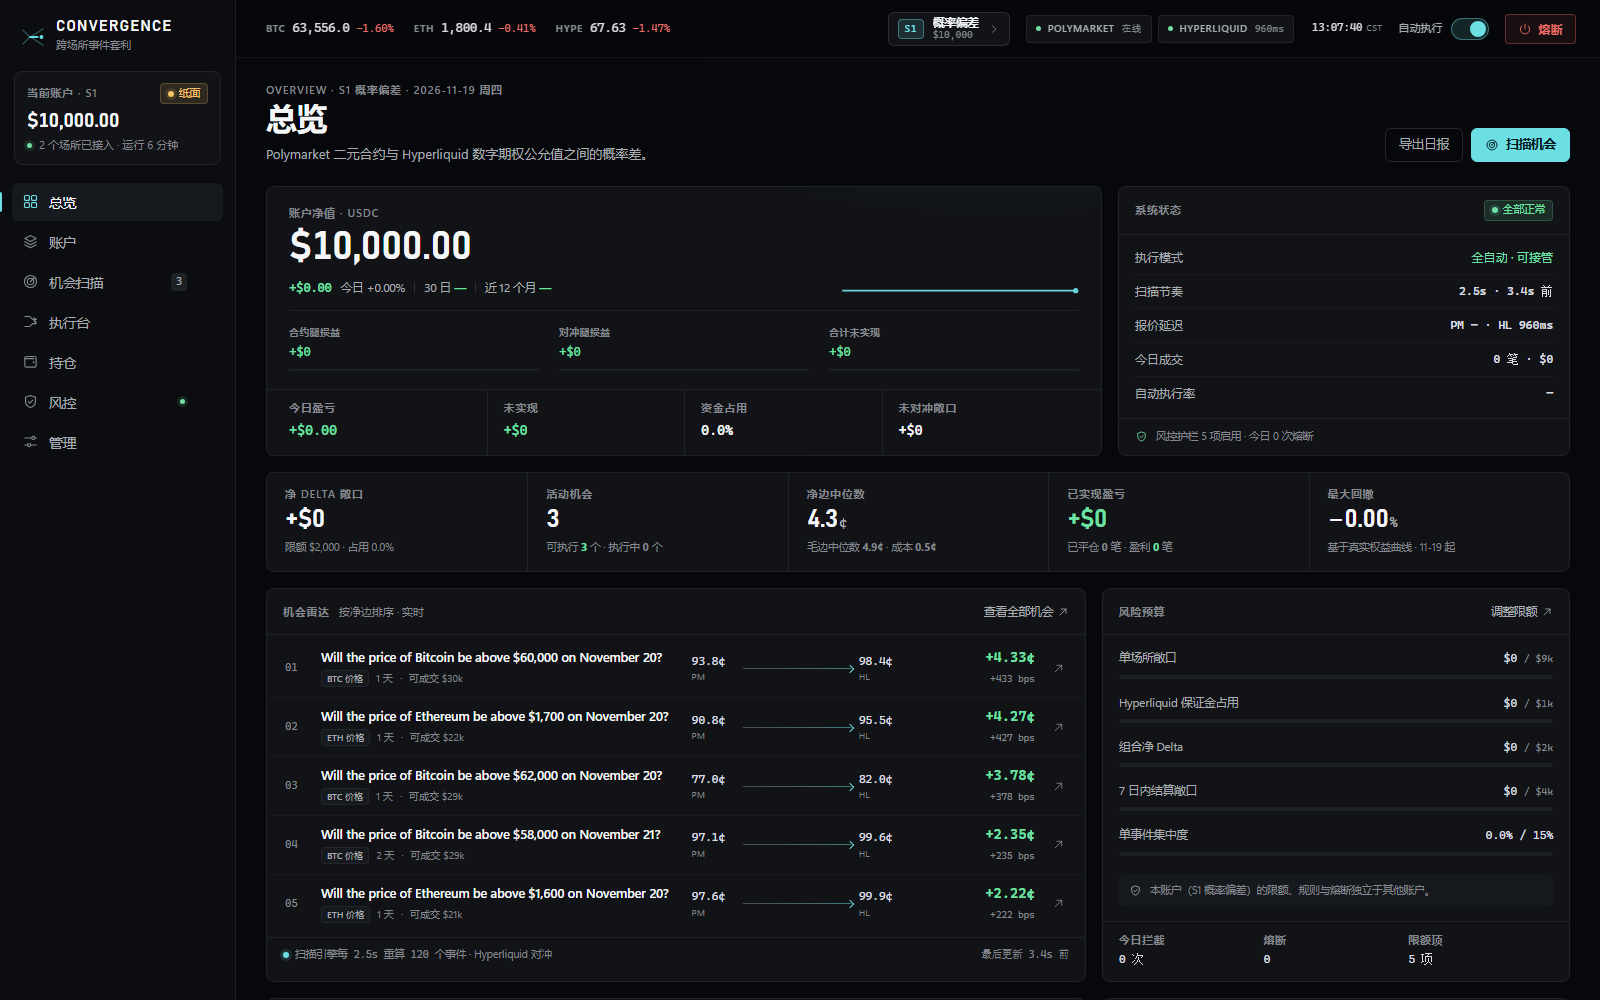
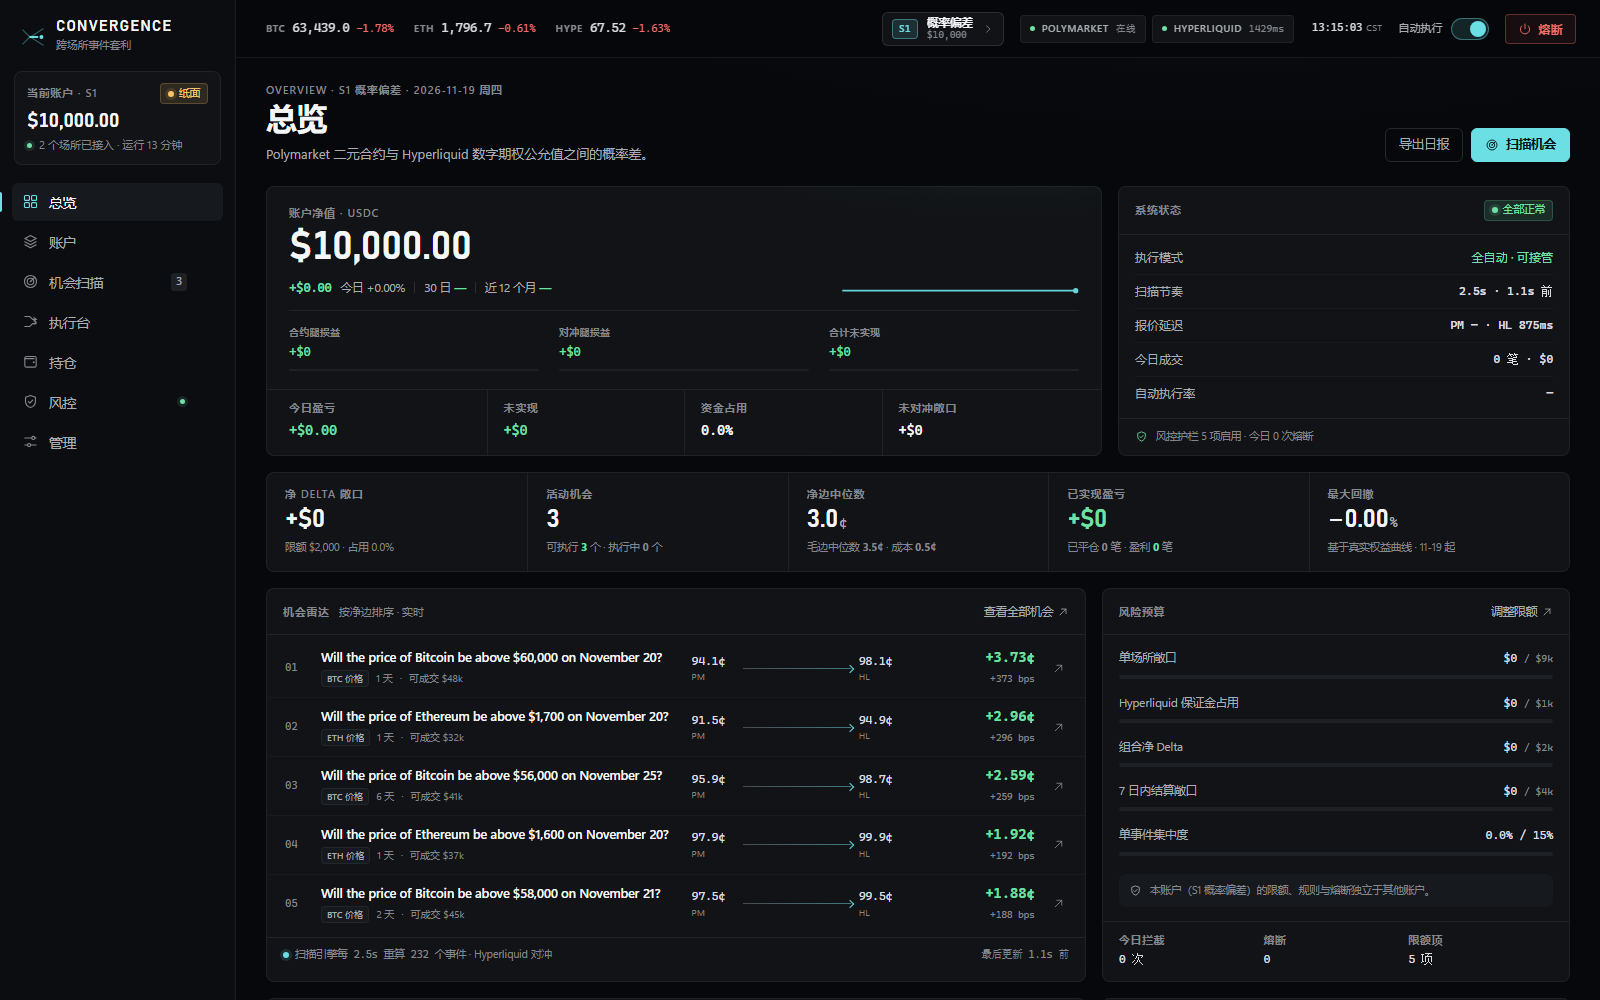
feat: live-only 10k paper books, real PM scan and P&L

diff --git a/README.md b/README.md
@@ -53,7 +53,7 @@ npm run doctor
 | 能力 | 状态 | 说明 |
 |---|---|---|
 | Hyperliquid 公共行情 | **已接入** | `metaAndAssetCtxs` / candles / 实时标记价与资金费率 |
-| Polymarket 公共行情 | **已接入并实测** | Gamma crypto 事件分页 + 最佳买卖价；扫描约 2,600 个市场，保留 120 个真实可报价事件 |
+| Polymarket 公共行情 | **已接入并实测** | Gamma crypto 事件分页 + 最佳买卖价；扫描约 2,100 个市场，最多保留 240 个真实可报价事件 |
 | Polymarket 网络 | **可达** | 本机验证通过；不可达时 PM 标记 `degraded`，扫描面为空，**不回退示例盘口** |
 | 实盘下单 | **需要凭据** | 未配置私有凭据时，`TRADING_MODE=live` 会被拒绝，不会静默改用纸面 |
 | 默认成交 | **纸面撮合** | 按真实 PM 买价与 HL 标记价在服务端撮合，不向交易所发送订单 |
@@ -156,11 +156,12 @@ npm run doctor
 - 熔断只撤当前账户未完成订单、停止其新开仓与补对冲，不自动平仓，不影响其他账户。
 - 解除熔断后第一笔订单仍走完整风控预检。
 
-**旧数据迁移**
+**从演示账本切换**
 
-旧版单账本（`data/convergence.db` v2）启动时自动迁移：持仓、订单、待接管、净值曲线、
-限额、规则、审计、风控事件全部归入 **S1 概率偏差**；S2–S4 以默认净值与独立限额新建。
-迁移后的旧表以 `*_legacy` 保留，确认无误后可手动删除。
+启动时若数据库没有 `liveBaselineV2` 标记，会清空所有演示持仓、订单、待接管、审计、净值曲线与事件，
+四个账户重置为 **10,000 USDC 起始资金**、已实现盈亏 0、限额按 10k 重建；用户、密码与全局设置保留。
+标记写入后不会重复清空；之后的净值曲线与盈亏全部来自真实纸面成交。
+旧 v2 单账本迁移代码仍保留，但在 live baseline 之前执行，最终以四账户 10k 账本为准。
 
 前台还有：
 
@@ -306,7 +307,7 @@ npm run verify    # 35 项：启动真实服务 + headless Chromium 全流程 + 
 
 ## 9. 已知边界
 
-1. **Polymarket 网络**：本机已验证 `gamma-api.polymarket.com` 可达，实时目录扫描约 2,600 个 crypto 市场并保留 120 个可报价事件；不可达时扫描面为空、标记降级，**不回退模拟盘口**。
+1. **Polymarket 网络**：本机已验证 `gamma-api.polymarket.com` 可达，实时目录扫描约 2,100 个 crypto 市场并最多保留 240 个可报价事件；不可达时扫描面为空、标记降级，**不回退模拟盘口**。
    盘口使用 Gamma 最优买卖价，尚未接 WebSocket 增量订单簿。
 2. **实时报价年龄**：S3 报价滞后策略需要 PM 的逐笔/带时间戳报价；当前 3 分钟轮询会把报价年龄视为 0，因此 S3 默认没有信号，直到接入实时 CLOB/WS。
 3. **到期处理**：纸面持仓在 PM 市场到期后按**最后真实买价**平仓并结算已实现盈亏；未接官方 UMA 结算结果，实盘前应对接 resolution 数据。

diff --git a/DESIGN.md b/DESIGN.md
@@ -153,7 +153,7 @@
 
 ## 9. 已知边界
 
-- Polymarket 通过 Gamma 实时目录接入（约 2,600 个 crypto 市场，保留 120 个可报价事件）；
+- Polymarket 通过 Gamma 实时目录接入（约 2,100 个 crypto 市场，最多 240 个可报价事件）；
   不可达时扫描面为空并标记降级，生产路径不回退示例盘口。
 - 报价滞后信号需要逐笔/带时间戳的 PM 报价；当前 3 分钟轮询把 age 视为 0，
   S3 因此默认无信号，直到接入 WebSocket 或带时间戳的 CLOB 快照。
